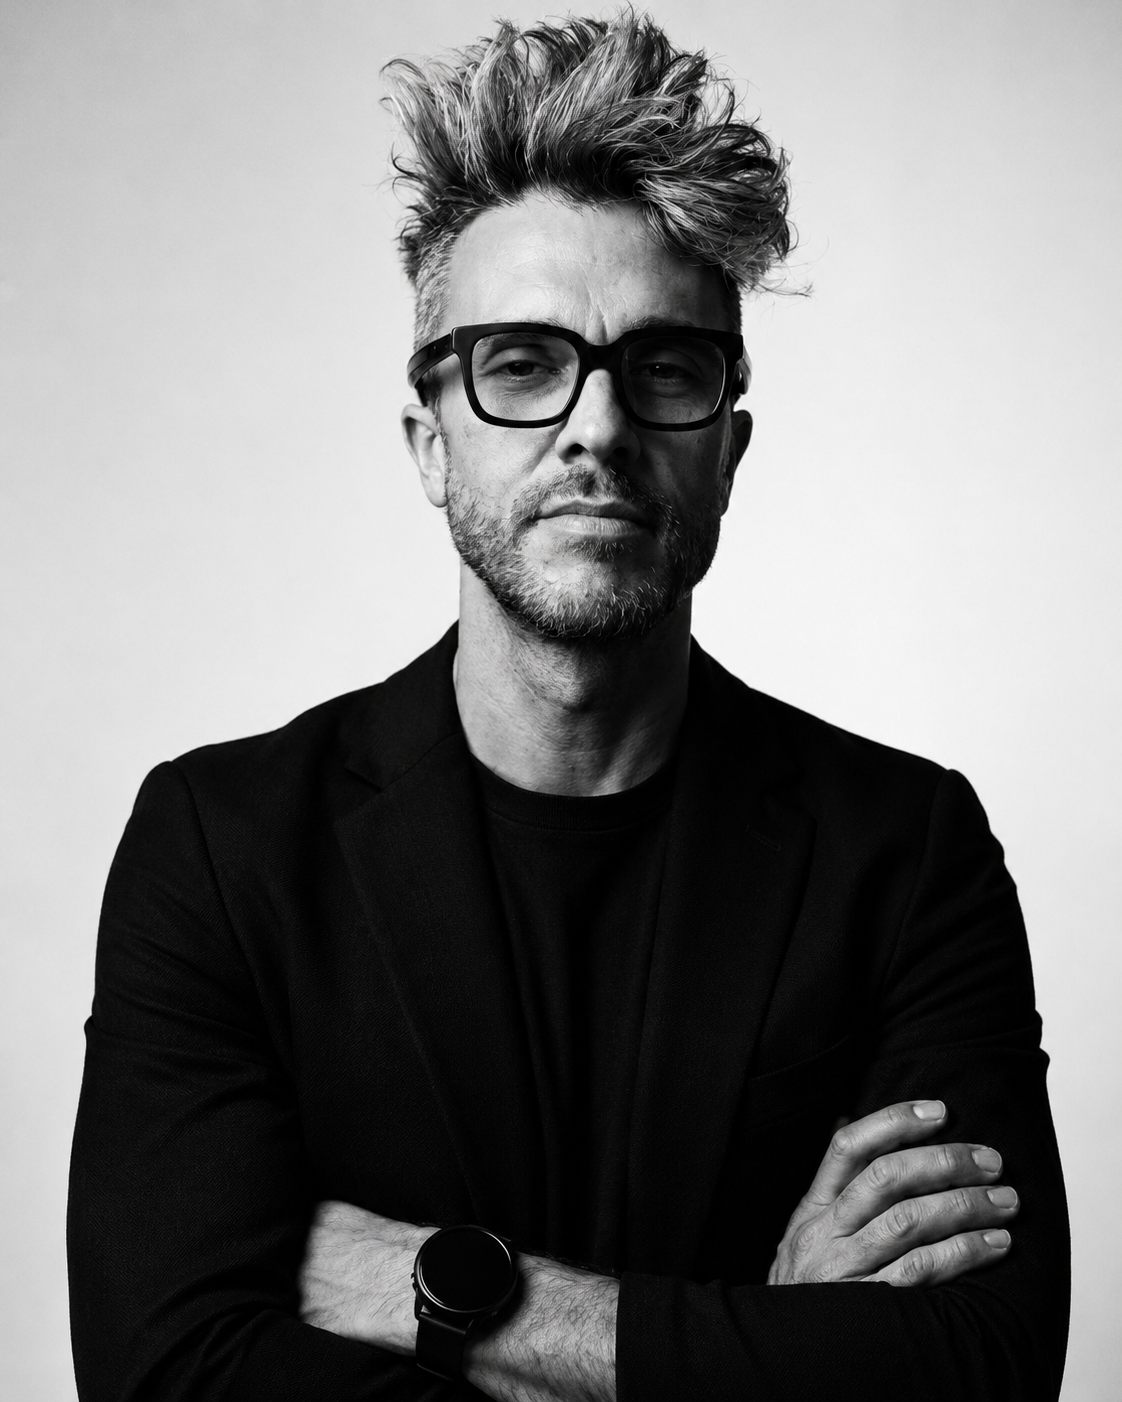
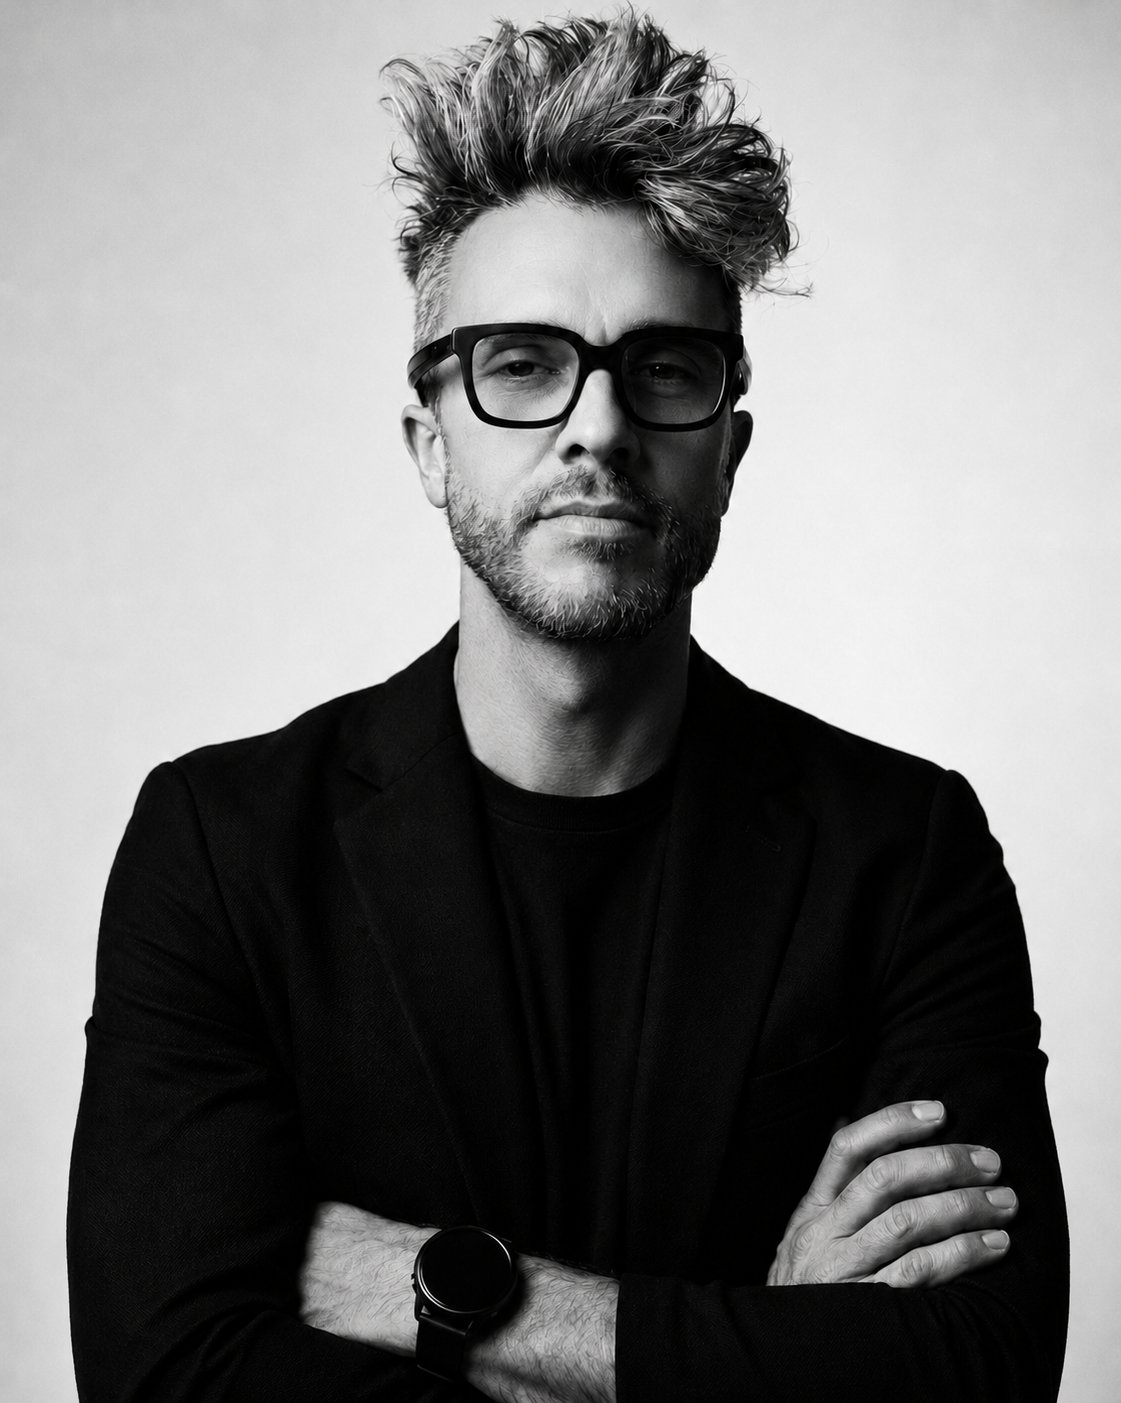
Update about image and typography

diff --git a/app/layout.tsx b/app/layout.tsx
@@ -1,5 +1,18 @@
 import type { Metadata } from "next";
+import { Inter, Oswald } from "next/font/google";
 import "./globals.css";
+
+const inter = Inter({
+  subsets: ["latin"],
+  weight: ["500", "600", "700", "800", "900"],
+  variable: "--font-inter",
+});
+
+const oswald = Oswald({
+  subsets: ["latin"],
+  weight: ["600", "700"],
+  variable: "--font-oswald",
+});
 
 export const metadata: Metadata = {
   title: "Softgrain Audio | Custom music, ready to license",
@@ -17,7 +30,7 @@ export default function RootLayout({
 }>) {
   return (
     <html lang="en">
-      <body>{children}</body>
+      <body className={`${inter.variable} ${oswald.variable}`}>{children}</body>
     </html>
   );
 }

diff --git a/app/globals.css b/app/globals.css
@@ -29,7 +29,7 @@ body {
     radial-gradient(circle at 44% 2%, rgba(242, 240, 234, 0.055), transparent 24rem),
     linear-gradient(145deg, var(--deep-black), #0d1011 50%, #090a0b);
   font-family:
-    Inter, Manrope, "Space Grotesk", system-ui, -apple-system, BlinkMacSystemFont, "Segoe UI",
+    var(--font-inter, Inter), Manrope, "Space Grotesk", system-ui, -apple-system, BlinkMacSystemFont, "Segoe UI",
     sans-serif;
   min-height: 100vh;
 }
@@ -95,7 +95,7 @@ p {
 h1,
 h2 {
   font-family:
-    "Arial Narrow", "Oswald", "Bebas Neue", Impact, Haettenschweiler, sans-serif;
+    var(--font-oswald, "Oswald"), "Arial Narrow", "Bebas Neue", Impact, Haettenschweiler, sans-serif;
   font-stretch: condensed;
   letter-spacing: 0;
   text-transform: uppercase;

diff --git a/index.html b/index.html
@@ -5,6 +5,9 @@
     <meta name="viewport" content="width=device-width, initial-scale=1" />
     <title>Softgrain Audio | Preview</title>
     <link rel="icon" type="image/svg+xml" href="./public/favicon.svg" />
+    <link rel="preconnect" href="https://fonts.googleapis.com" />
+    <link rel="preconnect" href="https://fonts.gstatic.com" crossorigin />
+    <link href="https://fonts.googleapis.com/css2?family=Inter:wght@500;600;700;800;900&family=Oswald:wght@600;700&display=swap" rel="stylesheet" />
     <link rel="stylesheet" href="./app/globals.css" />
   </head>
   <body>